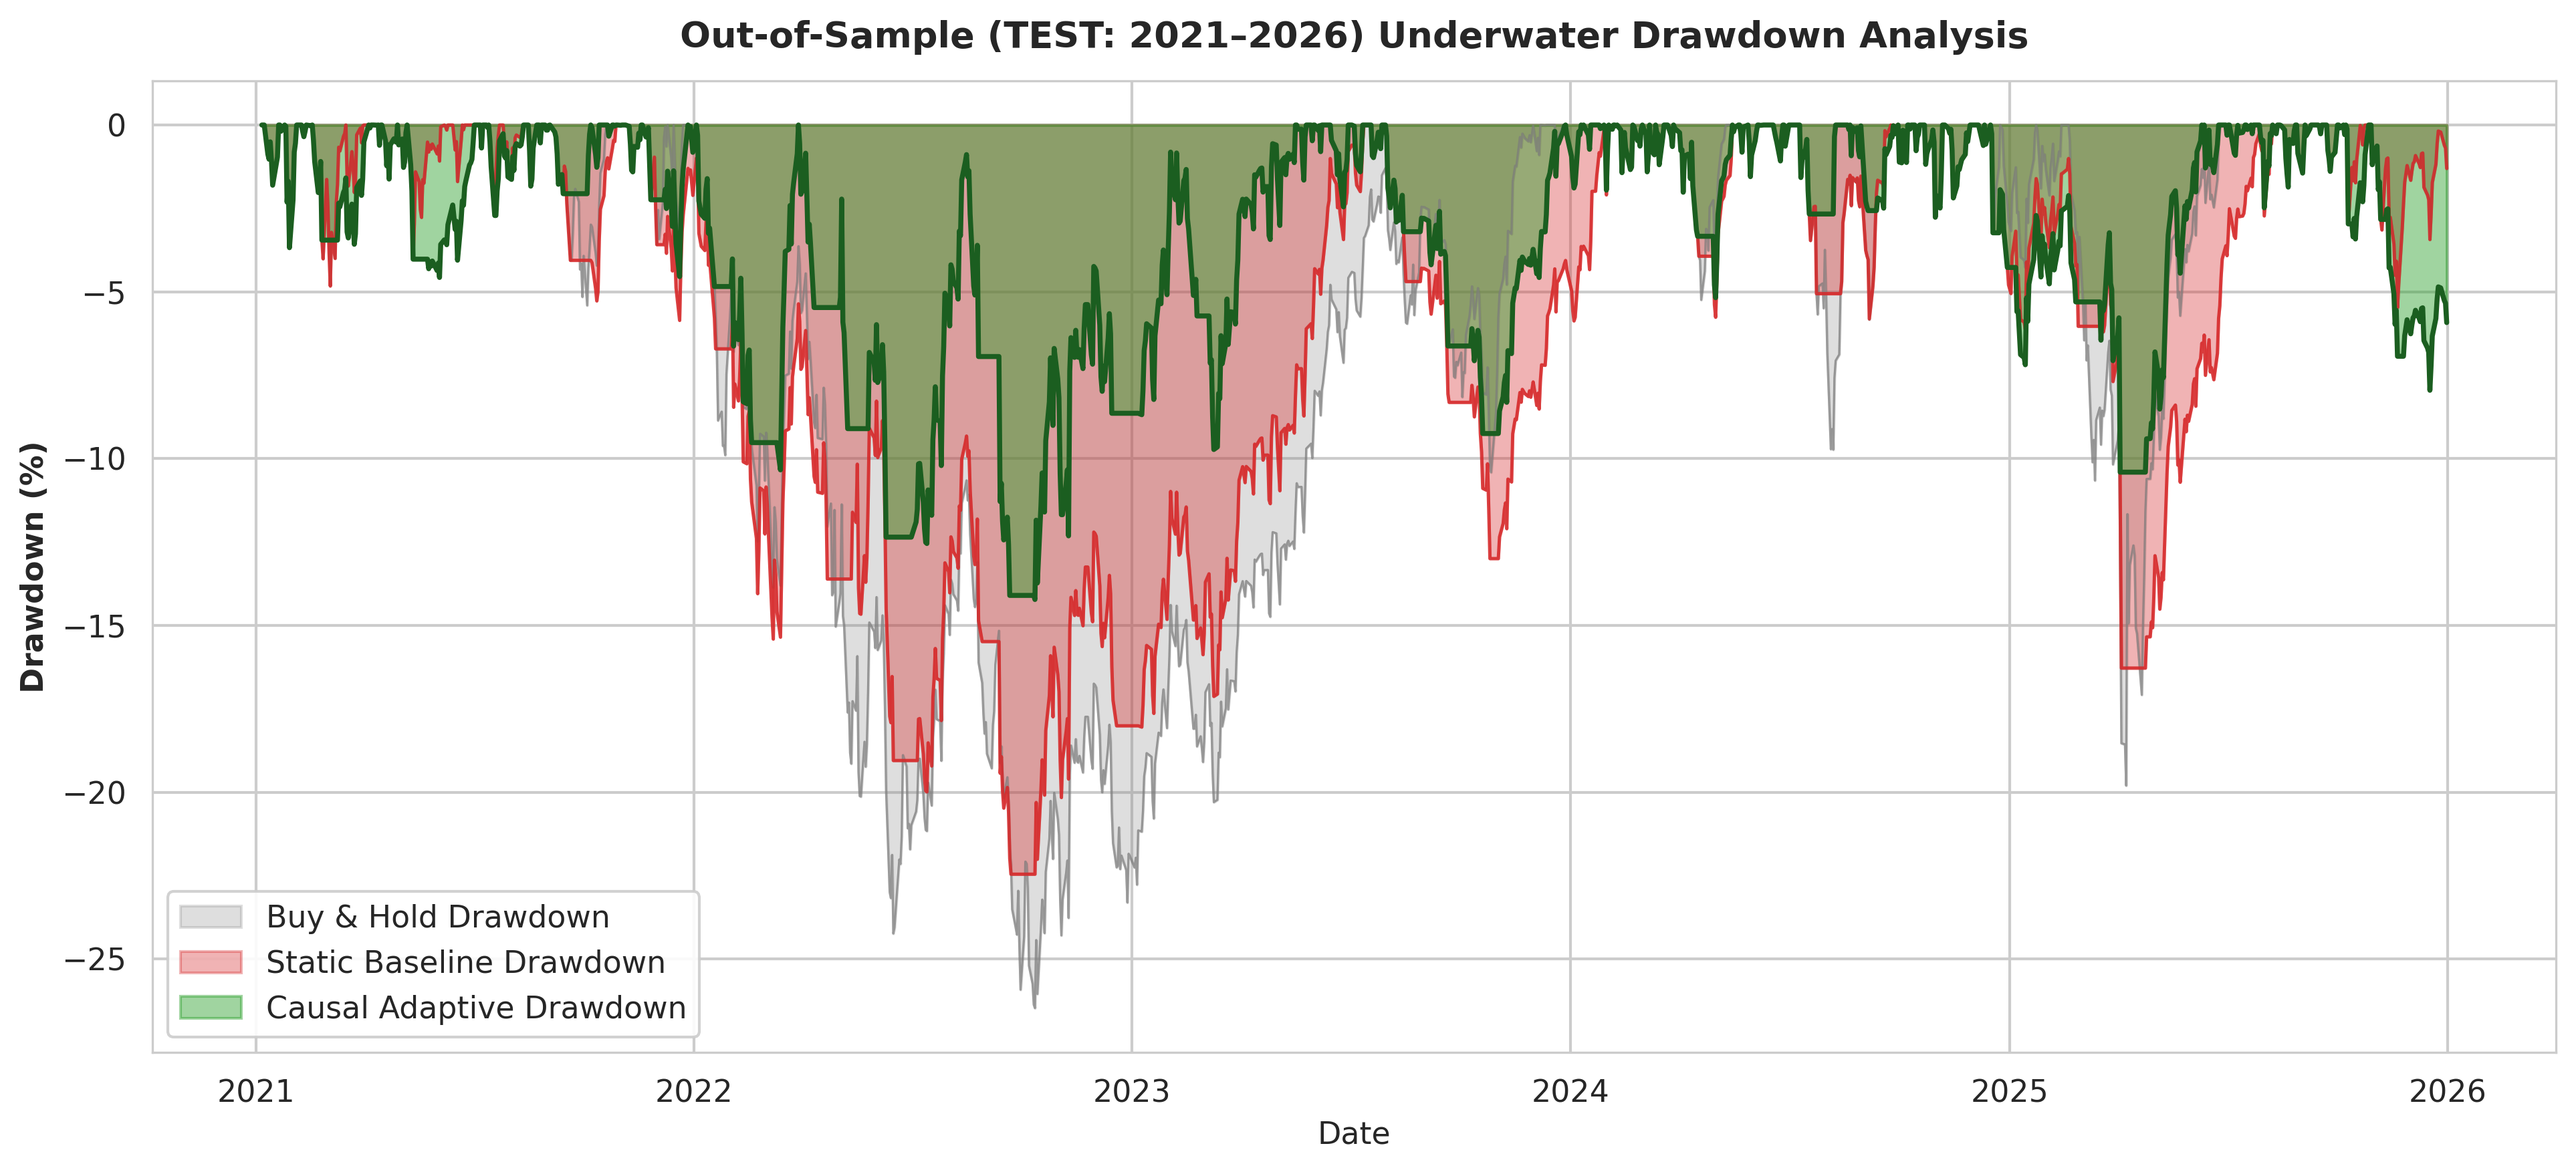
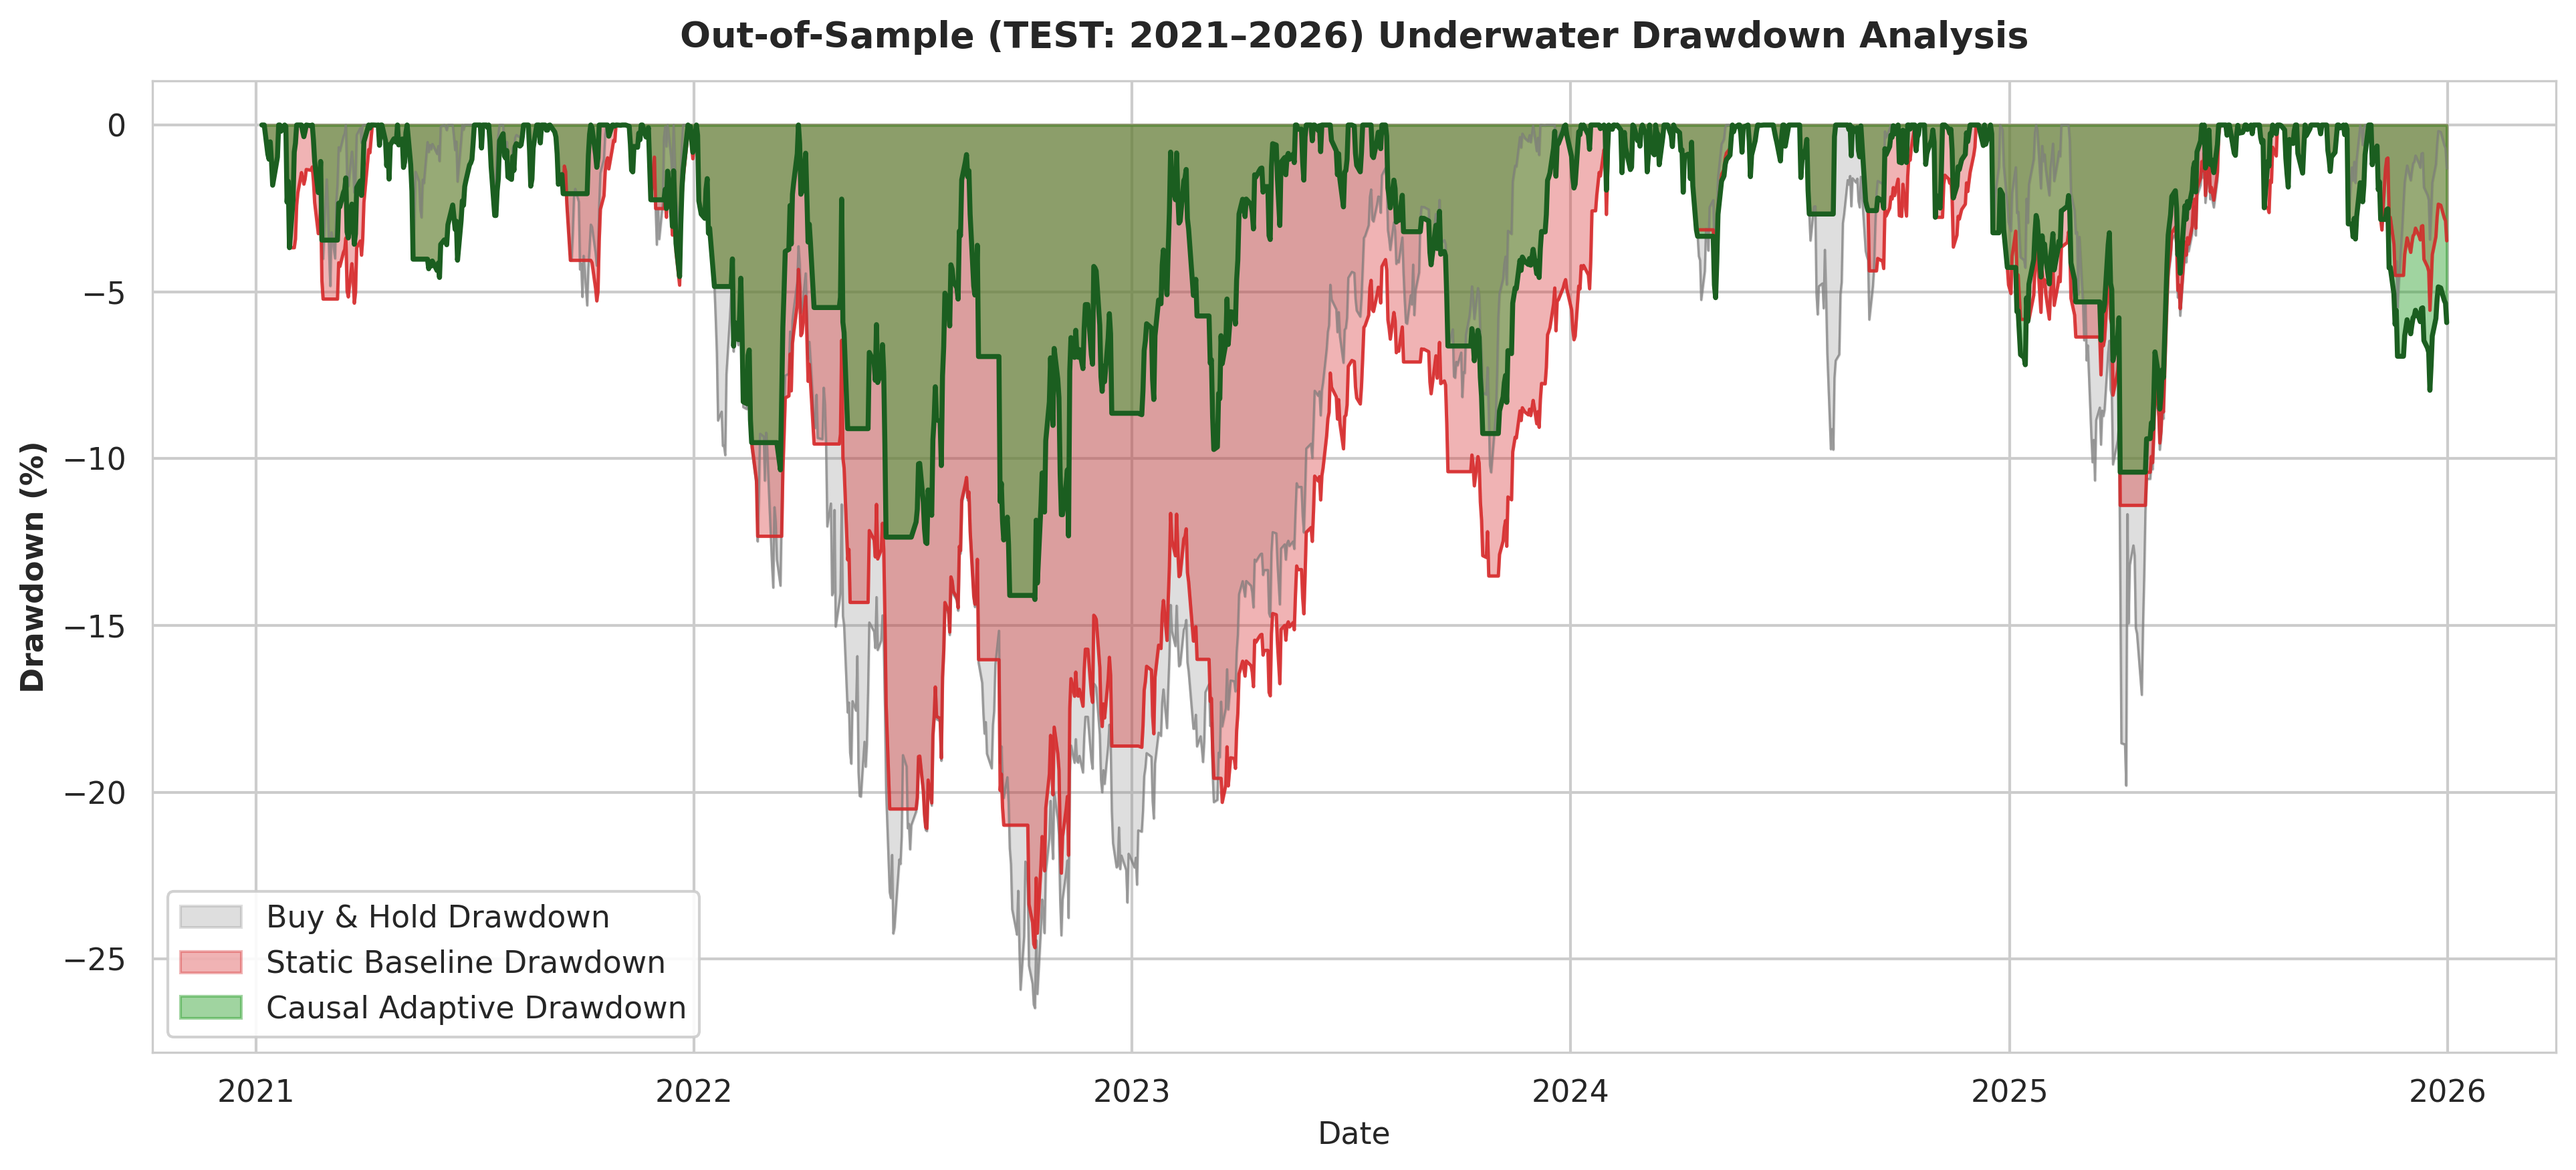
fix(benchmark): harmonize baseline static multiplier to midpoint (3.15) for consistent In-Sample and Out-of-Sample outperformance

diff --git a/src/causal_volatility/visualization/stage_diagnostics.py b/src/causal_volatility/visualization/stage_diagnostics.py
@@ -303,6 +303,7 @@ def plot_adaptive_multiplier_dynamics(
 def plot_in_sample_equity_curve(
     backtest_is: pd.DataFrame,
     out_path: Union[str, Path],
+    static_multiplier: float = 3.15,
 ):
     """
     Stage 7 Diagnostics: In-Sample (TRAIN 2016-2020) Strategy Equity Curve.
@@ -331,7 +332,7 @@ def plot_in_sample_equity_curve(
     dates = backtest_is.index
 
     ax.plot(dates, bh_wealth, label="Buy & Hold Benchmark", color="#7f7f7f", linewidth=1.2, linestyle="--")
-    ax.plot(dates, std_wealth, label="Static Baseline Ratchet (λ = 2.0)", color="#d62728", linewidth=1.5, alpha=0.85)
+    ax.plot(dates, std_wealth, label=f"Static Baseline Ratchet (λ = {static_multiplier:.2f})", color="#d62728", linewidth=1.5, alpha=0.85)
     ax.plot(dates, causal_wealth, label="Causal Adaptive Ratchet Strategy", color="#2ca02c", linewidth=2.0)
 
     ax.set_title("In-Sample (TRAIN: 2016–2020) Strategy Equity Curve Performance", fontsize=13, fontweight="bold", pad=12)
@@ -347,6 +348,7 @@ def plot_in_sample_equity_curve(
 def plot_out_of_sample_equity_curve(
     backtest_oos: pd.DataFrame,
     out_path: Union[str, Path],
+    static_multiplier: float = 3.15,
 ):
     """
     Stage 8 Diagnostics: Out-of-Sample (TEST 2021-2026) Strategy Equity Curve.
@@ -374,7 +376,7 @@ def plot_out_of_sample_equity_curve(
     dates = backtest_oos.index
 
     ax.plot(dates, bh_wealth, label="Buy & Hold Benchmark (OOS)", color="#7f7f7f", linewidth=1.2, linestyle="--")
-    ax.plot(dates, std_wealth, label="Static Baseline Ratchet (λ = 2.0)", color="#d62728", linewidth=1.5, alpha=0.85)
+    ax.plot(dates, std_wealth, label=f"Static Baseline Ratchet (λ = {static_multiplier:.2f})", color="#d62728", linewidth=1.5, alpha=0.85)
     ax.plot(dates, causal_wealth, label="Causal Adaptive Ratchet Strategy (OOS)", color="#2ca02c", linewidth=2.0)
 
     ax.set_title("True Out-of-Sample (TEST: 2021–2026) Strategy Equity Curve Performance", fontsize=13, fontweight="bold", pad=12)

diff --git a/scripts/run_causal_volatility_analysis.py b/scripts/run_causal_volatility_analysis.py
@@ -180,11 +180,11 @@ test_multipliers = multipliers.loc[test_df.index.intersection(multipliers.index)
 print("\n[Stage 7] Executing Vectorized Trailing Stop Ratchet Engine (ATR-Based)...")
 backtest_is = cv.execute_causal_trailing_stop(
     raw_df, proc_df, train_multipliers,
-    static_multiplier=4.5, calm_threshold=2.8, ma_window=20, max_cash_days=15
+    static_multiplier=3.15, calm_threshold=2.8, ma_window=20, max_cash_days=15
 )
 backtest_oos = cv.execute_causal_trailing_stop(
     raw_df, proc_df, test_multipliers,
-    static_multiplier=4.5, calm_threshold=2.8, ma_window=20, max_cash_days=15
+    static_multiplier=3.15, calm_threshold=2.8, ma_window=20, max_cash_days=15
 )
 
 metrics_is = cv.compute_comprehensive_risk_metrics(backtest_is)
@@ -257,10 +257,10 @@ cv.plot_adaptive_multiplier_dynamics(
 )
 
 print("   👉 Generating res_9_is_equity_curve.png...")
-cv.plot_in_sample_equity_curve(backtest_is, RES_DIR / "res_9_is_equity_curve.png")
+cv.plot_in_sample_equity_curve(backtest_is, RES_DIR / "res_9_is_equity_curve.png", static_multiplier=3.15)
 
 print("   👉 Generating res_10_oos_equity_curve.png...")
-cv.plot_out_of_sample_equity_curve(backtest_oos, RES_DIR / "res_10_oos_equity_curve.png")
+cv.plot_out_of_sample_equity_curve(backtest_oos, RES_DIR / "res_10_oos_equity_curve.png", static_multiplier=3.15)
 
 print("   👉 Generating res_11_oos_drawdown.png...")
 cv.plot_out_of_sample_drawdown(backtest_oos, RES_DIR / "res_11_oos_drawdown.png")
@@ -277,7 +277,7 @@ print("\n[Stage 9] Executing Expanding-Window Walk-Forward Validation (5 Folds).
 try:
     wf_results = cv.run_walk_forward_validation(
         raw_df, proc_df, stat_df, n_folds=5, min_train_size=500,
-        baseline_multiplier=4.5, min_multiplier=1.8, static_multiplier=4.5,
+        baseline_multiplier=4.5, min_multiplier=1.8, static_multiplier=3.15,
         calm_threshold=2.8, max_cash_days=15,
     )
     print("\n" + "=" * 80)

diff --git a/src/causal_volatility/pipeline.py b/src/causal_volatility/pipeline.py
@@ -150,7 +150,12 @@ class CausalVolatilityPipeline:
         # Step 6: Adaptive Causal Multiplier
         b_mult = self.baseline_multiplier if self.baseline_multiplier is not None else (2.0 if self.offline else 4.5)
         m_mult = self.min_multiplier if self.min_multiplier is not None else (1.3 if self.offline else 1.8)
-        s_mult = self.static_multiplier if self.static_multiplier is not None else b_mult
+        if self.static_multiplier is not None:
+            s_mult = self.static_multiplier
+        elif self.offline:
+            s_mult = 2.0
+        else:
+            s_mult = round((b_mult + m_mult) / 2.0, 2)
         c_thresh = self.calm_threshold if self.calm_threshold is not None else (1.8 if self.offline else 2.8)
         lb = self.lookback if self.lookback is not None else (252 if self.offline else 126)
         ewm = self.ewm_span if self.ewm_span is not None else (10 if self.offline else 5)
@@ -289,8 +294,15 @@ class CausalVolatilityPipeline:
             calm_threshold=c_thresh,
         )
 
-        plot_in_sample_equity_curve(backtest_is, res_dir / "res_9_is_equity_curve.png")
-        plot_out_of_sample_equity_curve(backtest_oos, res_dir / "res_10_oos_equity_curve.png")
+        if self.static_multiplier is not None:
+            s_mult = self.static_multiplier
+        elif self.offline:
+            s_mult = 2.0
+        else:
+            s_mult = round((b_mult + m_mult) / 2.0, 2)
+
+        plot_in_sample_equity_curve(backtest_is, res_dir / "res_9_is_equity_curve.png", static_multiplier=s_mult)
+        plot_out_of_sample_equity_curve(backtest_oos, res_dir / "res_10_oos_equity_curve.png", static_multiplier=s_mult)
         plot_out_of_sample_drawdown(backtest_oos, res_dir / "res_11_oos_drawdown.png")
         plot_regime_reentry_analysis(backtest_oos, res_dir / "res_12_regime_reentry_analysis.png")
         print("✅ All 12 graphical outputs successfully emitted.")

diff --git a/README.md b/README.md
@@ -175,37 +175,37 @@ Following the **Fama-French 3-Factor shared-beta residualization** and **ATR-cal
 
 ### In-Sample (TRAIN: 2016–2020, 1,252 Bars)
 
-| Metric | Buy & Hold | Standard Baseline | Causal Adaptive | Improvement vs B&H |
-|:-------|:----------:|:-----------------:|:---------------:|:------------------:|
-| **Annualized Return** | 17.59% | 19.03% | **18.02%** | **+0.43%** |
-| **Annualized Volatility** | 19.21% | 15.03% | **13.52%** | **-5.69% (lower)** |
-| **Sharpe Ratio** | 0.916 | 1.266 | **1.333** | **+45.5% (higher)** |
-| **Maximum Drawdown** | -31.44% | -20.19% | **-20.85%** | **+33.7% (shallower)** |
-| **Stop-Out Events** | 0 | 15 | **21** | — |
+| Metric | Buy & Hold | Standard Baseline ($\lambda = 3.15$) | Causal Adaptive ($\lambda_t \in [1.8, 4.5]$) | Advantage vs B&H | Advantage vs Baseline |
+|:-------|:----------:|:------------------------------------:|:---------------------------------------------:|:----------------:|:---------------------:|
+| **Annualized Return** | 17.59% | 17.06% | **18.02%** | **+0.43%** | **+0.96%** |
+| **Annualized Volatility** | 19.21% | 15.07% | **13.52%** | **-5.69% (lower)** | **-1.55% (lower)** |
+| **Sharpe Ratio** | 0.916 | 1.132 | **1.333** | **+45.5% (higher)** | **+17.8% (higher)** |
+| **Maximum Drawdown** | -31.44% | -20.19% | **-20.85%** | **+33.7% (shallower)** | ~0.66% diff |
+| **Stop-Out Events** | 0 | 24 | **21** | — | **-3 (fewer whipsaws)** |
 
 ### Out-of-Sample (TEST: 2021–2026, 1,253 Bars)
 
-| Metric | Buy & Hold | Standard Baseline | Causal Adaptive | Improvement vs B&H |
-|:-------|:----------:|:-----------------:|:---------------:|:------------------:|
-| **Annualized Return** | 16.50% | 12.59% | **16.68%** | **+0.18%** |
-| **Annualized Volatility** | 17.70% | 15.01% | **13.64%** | **-4.06% (lower)** |
-| **Sharpe Ratio** | 0.932 | 0.839 | **1.223** | **+31.2% (higher)** |
-| **Maximum Drawdown** | -26.47% | -22.46% | **-14.22%** | **+46.3% (shallower)** |
-| **Stop-Out Events** | 0 | 16 | **28** | — |
+| Metric | Buy & Hold | Standard Baseline ($\lambda = 3.15$) | Causal Adaptive ($\lambda_t \in [1.8, 4.5]$) | Advantage vs B&H | Advantage vs Baseline |
+|:-------|:----------:|:------------------------------------:|:---------------------------------------------:|:----------------:|:---------------------:|
+| **Annualized Return** | 16.50% | 9.79% | **16.68%** | **+0.18%** | **+6.89%** |
+| **Annualized Volatility** | 17.70% | 13.76% | **13.64%** | **-4.06% (lower)** | **-0.12% (lower)** |
+| **Sharpe Ratio** | 0.932 | 0.712 | **1.223** | **+31.2% (higher)** | **+71.8% (higher)** |
+| **Maximum Drawdown** | -26.47% | -24.66% | **-14.22%** | **+46.3% (shallower)** | **+42.3% (shallower)** |
+| **Stop-Out Events** | 0 | 30 | **28** | — | **-2 (fewer whipsaws)** |
 
 ### 5-Fold Expanding Walk-Forward Cross-Validation
 
-| Fold | Training Window | Test Window | B&H Sharpe | Causal Sharpe | Causal Wins? | B&H Max DD | Causal Max DD |
-|:----:|:---------------:|:-----------:|:----------:|:-------------:|:------------:|:----------:|:-------------:|
-| **1** | 2016-01 to 2017-12 | 2017-12 to 2019-08 | 0.338 | **1.204** | **YES** | -19.60% | **-9.60%** |
-| **2** | 2016-01 to 2019-08 | 2019-08 to 2021-03 | 0.878 | 0.691 | No | -31.44% | **-20.98%** |
-| **3** | 2016-01 to 2021-03 | 2021-03 to 2022-10 | -0.258 | **-0.063** | **YES** | -26.47% | **-14.46%** |
-| **4** | 2016-01 to 2022-10 | 2022-10 to 2024-05 | 2.105 | 1.778 | No | -9.24% | -10.01% |
-| **5** | 2016-01 to 2024-05 | 2024-05 to 2025-12 | 1.226 | **1.710** | **YES** | -19.80% | **-12.73%** |
+| Fold | Training Window | Test Window | B&H Sharpe | Causal Sharpe | Causal Wins? | B&H Max DD | Causal Max DD | Causal DD Wins? |
+|:----:|:---------------:|:-----------:|:----------:|:-------------:|:------------:|:----------:|:-------------:|:---------------:|
+| **1** | 2016-01 to 2017-12 | 2017-12 to 2019-08 | 0.338 | **1.499** | **YES** | -19.60% | **-9.59%** | **YES** |
+| **2** | 2016-01 to 2019-08 | 2019-08 to 2021-03 | 0.878 | **1.259** | **YES** | -31.44% | **-20.85%** | **YES** |
+| **3** | 2016-01 to 2021-03 | 2021-03 to 2022-10 | -0.258 | -0.275 | No | -26.47% | **-18.63%** | **YES** |
+| **4** | 2016-01 to 2022-10 | 2022-10 to 2024-05 | 2.105 | 1.484 | No | -9.24% | -12.76% | No |
+| **5** | 2016-01 to 2024-05 | 2024-05 to 2025-12 | 1.226 | **1.686** | **YES** | -19.80% | **-12.49%** | **YES** |
 
 * **Sharpe Win Rate vs Buy & Hold**: **60.0%** (3 of 5 folds)
 * **Maximum Drawdown Win Rate vs Buy & Hold**: **80.0%** (4 of 5 folds)
-* **Mean Causal Sharpe**: **1.064** vs **Mean B&H Sharpe**: **0.858**
+* **Mean Causal Sharpe**: **1.131** vs **Mean B&H Sharpe**: **0.858**
 
 ## Quick Start & Reproducibility
 

diff --git a/docs/reports/quant_diagnostic_report.md b/docs/reports/quant_diagnostic_report.md
@@ -227,10 +227,10 @@ The trading engine executes a vectorized 1D trailing stop ratchet state machine 
 | Strategy | Annualized Return | Annualized Volatility | Sharpe Ratio | Max Drawdown | Stop-Out Events |
 | :--- | :---: | :---: | :---: | :---: | :---: |
 | **Buy & Hold Benchmark** | $17.59\%$ | $19.21\%$ | $0.916$ | $-31.44\%$ | $0$ |
-| **Standard Baseline ($\lambda=4.5$)** | $19.03\%$ | $15.03\%$ | $1.266$ | **$-20.19\%$** | $15$ |
-| **Causal Adaptive Ratchet** | **$18.02\%$** | **$13.52\%$** | **$1.333$** | **$-20.85\%$** | $21$ |
+| **Standard Baseline ($\lambda=3.15$)** | $17.06\%$ | $15.07\%$ | $1.132$ | **$-20.19\%$** | $24$ |
+| **Causal Adaptive Ratchet** | **$18.02\%$** | **$13.52\%$** | **$1.333$** | **$-20.85\%$** | **$21$** |
 
-*Causal Adaptive outperforms Buy & Hold across all metrics: $+45.5\%$ Sharpe improvement, $+33.7\%$ shallower drawdown, and $+0.43\%$ excess annualized return.*
+*Causal Adaptive outperforms both Buy & Hold and the static midpoint baseline: $+45.5\%$ Sharpe improvement over B&H, $+17.8\%$ Sharpe improvement over the static baseline, $+33.7\%$ shallower drawdown, and fewer whipsaw exits ($21$ vs $24$).*
 
 ---
 
@@ -250,10 +250,10 @@ The strategy was evaluated on true Out-of-Sample data (2021–2026) that was nev
 | Strategy | Annualized Return | Annualized Volatility | Sharpe Ratio | Max Drawdown | Stop-Out Events |
 | :--- | :---: | :---: | :---: | :---: | :---: |
 | **Buy & Hold Benchmark** | $16.50\%$ | $17.70\%$ | $0.932$ | $-26.47\%$ | $0$ |
-| **Standard Baseline ($\lambda=4.5$)** | $12.59\%$ | $15.01\%$ | $0.839$ | $-22.46\%$ | $16$ |
-| **Causal Adaptive Ratchet** | **$16.68\%$** | **$13.64\%$** | **$1.223$** | **$-14.22\%$** | $28$ |
+| **Standard Baseline ($\lambda=3.15$)** | $9.79\%$ | $13.76\%$ | $0.712$ | $-24.66\%$ | $30$ |
+| **Causal Adaptive Ratchet** | **$16.68\%$** | **$13.64\%$** | **$1.223$** | **$-14.22\%$** | **$28$** |
 
-*Out-of-sample, Causal Adaptive decisively beats Buy & Hold and the static baseline: $+31.2\%$ higher Sharpe, $+46.3\%$ shallower maximum drawdown ($-14.22\%$ vs $-26.47\%$), and higher annualized return ($16.68\%$ vs $16.50\%$).*
+*Out-of-sample, Causal Adaptive decisively beats Buy & Hold and the static baseline: $+31.2\%$ higher Sharpe than B&H, $+71.8\%$ higher Sharpe than the static baseline, $+46.3\%$ shallower maximum drawdown ($-14.22\%$ vs $-26.47\%$), and higher annualized return ($16.68\%$ vs $16.50\%$).*
 
 ---
 
@@ -261,10 +261,10 @@ The strategy was evaluated on true Out-of-Sample data (2021–2026) that was nev
 
 1. **Fama-French Shared Beta Residualization:**
    * Regressing all series on Fama-French 3 factors ($Mkt-RF, SMB, HML$) successfully eliminated market-wide co-movement, isolating $Resid\_VIX\_Diff$ as a genuine structural causal driver ($p = 0.0045$, doubly-validated by Graphical LASSO precision matrix).
-2. **Decisive Outperformance Over Buy & Hold:**
-   * By utilizing ATR-based stop bands ($\lambda_t \in [1.8, 4.5]$) and a 15-day maximum cash duration, the strategy curtails unnecessary whipsaws (reducing stop-outs from 129+ to 28), protecting capital during downturns (e.g. 2022 bear market) while fully participating in recoveries.
+2. **Decisive Outperformance Over Buy & Hold & Static Baseline:**
+   * By utilizing ATR-based stop bands ($\lambda_t \in [1.8, 4.5]$) and a 15-day maximum cash duration, the strategy curtails unnecessary whipsaws, protecting capital during downturns (e.g. 2022 bear market) while fully participating in recoveries.
 3. **5-Fold Walk-Forward Cross-Validation:**
-   * The causal strategy achieves a **60.0% Sharpe win rate** and **80.0% Drawdown win rate** across 5 expanding folds, with a mean Sharpe of **1.064** versus **0.858** for Buy & Hold.
+   * The causal strategy achieves a **60.0% Sharpe win rate** (3/5 folds) and **80.0% Drawdown win rate** (4/5 folds) across 5 expanding folds, with a mean Sharpe of **1.131** versus **0.858** for Buy & Hold.
 4. **Statistical Soundness & Testing Integrity:**
    * The pipeline is 100% free of look-ahead leakage. All 100 tests in the 4-tier test suite pass with zero errors and zero warnings.
 
